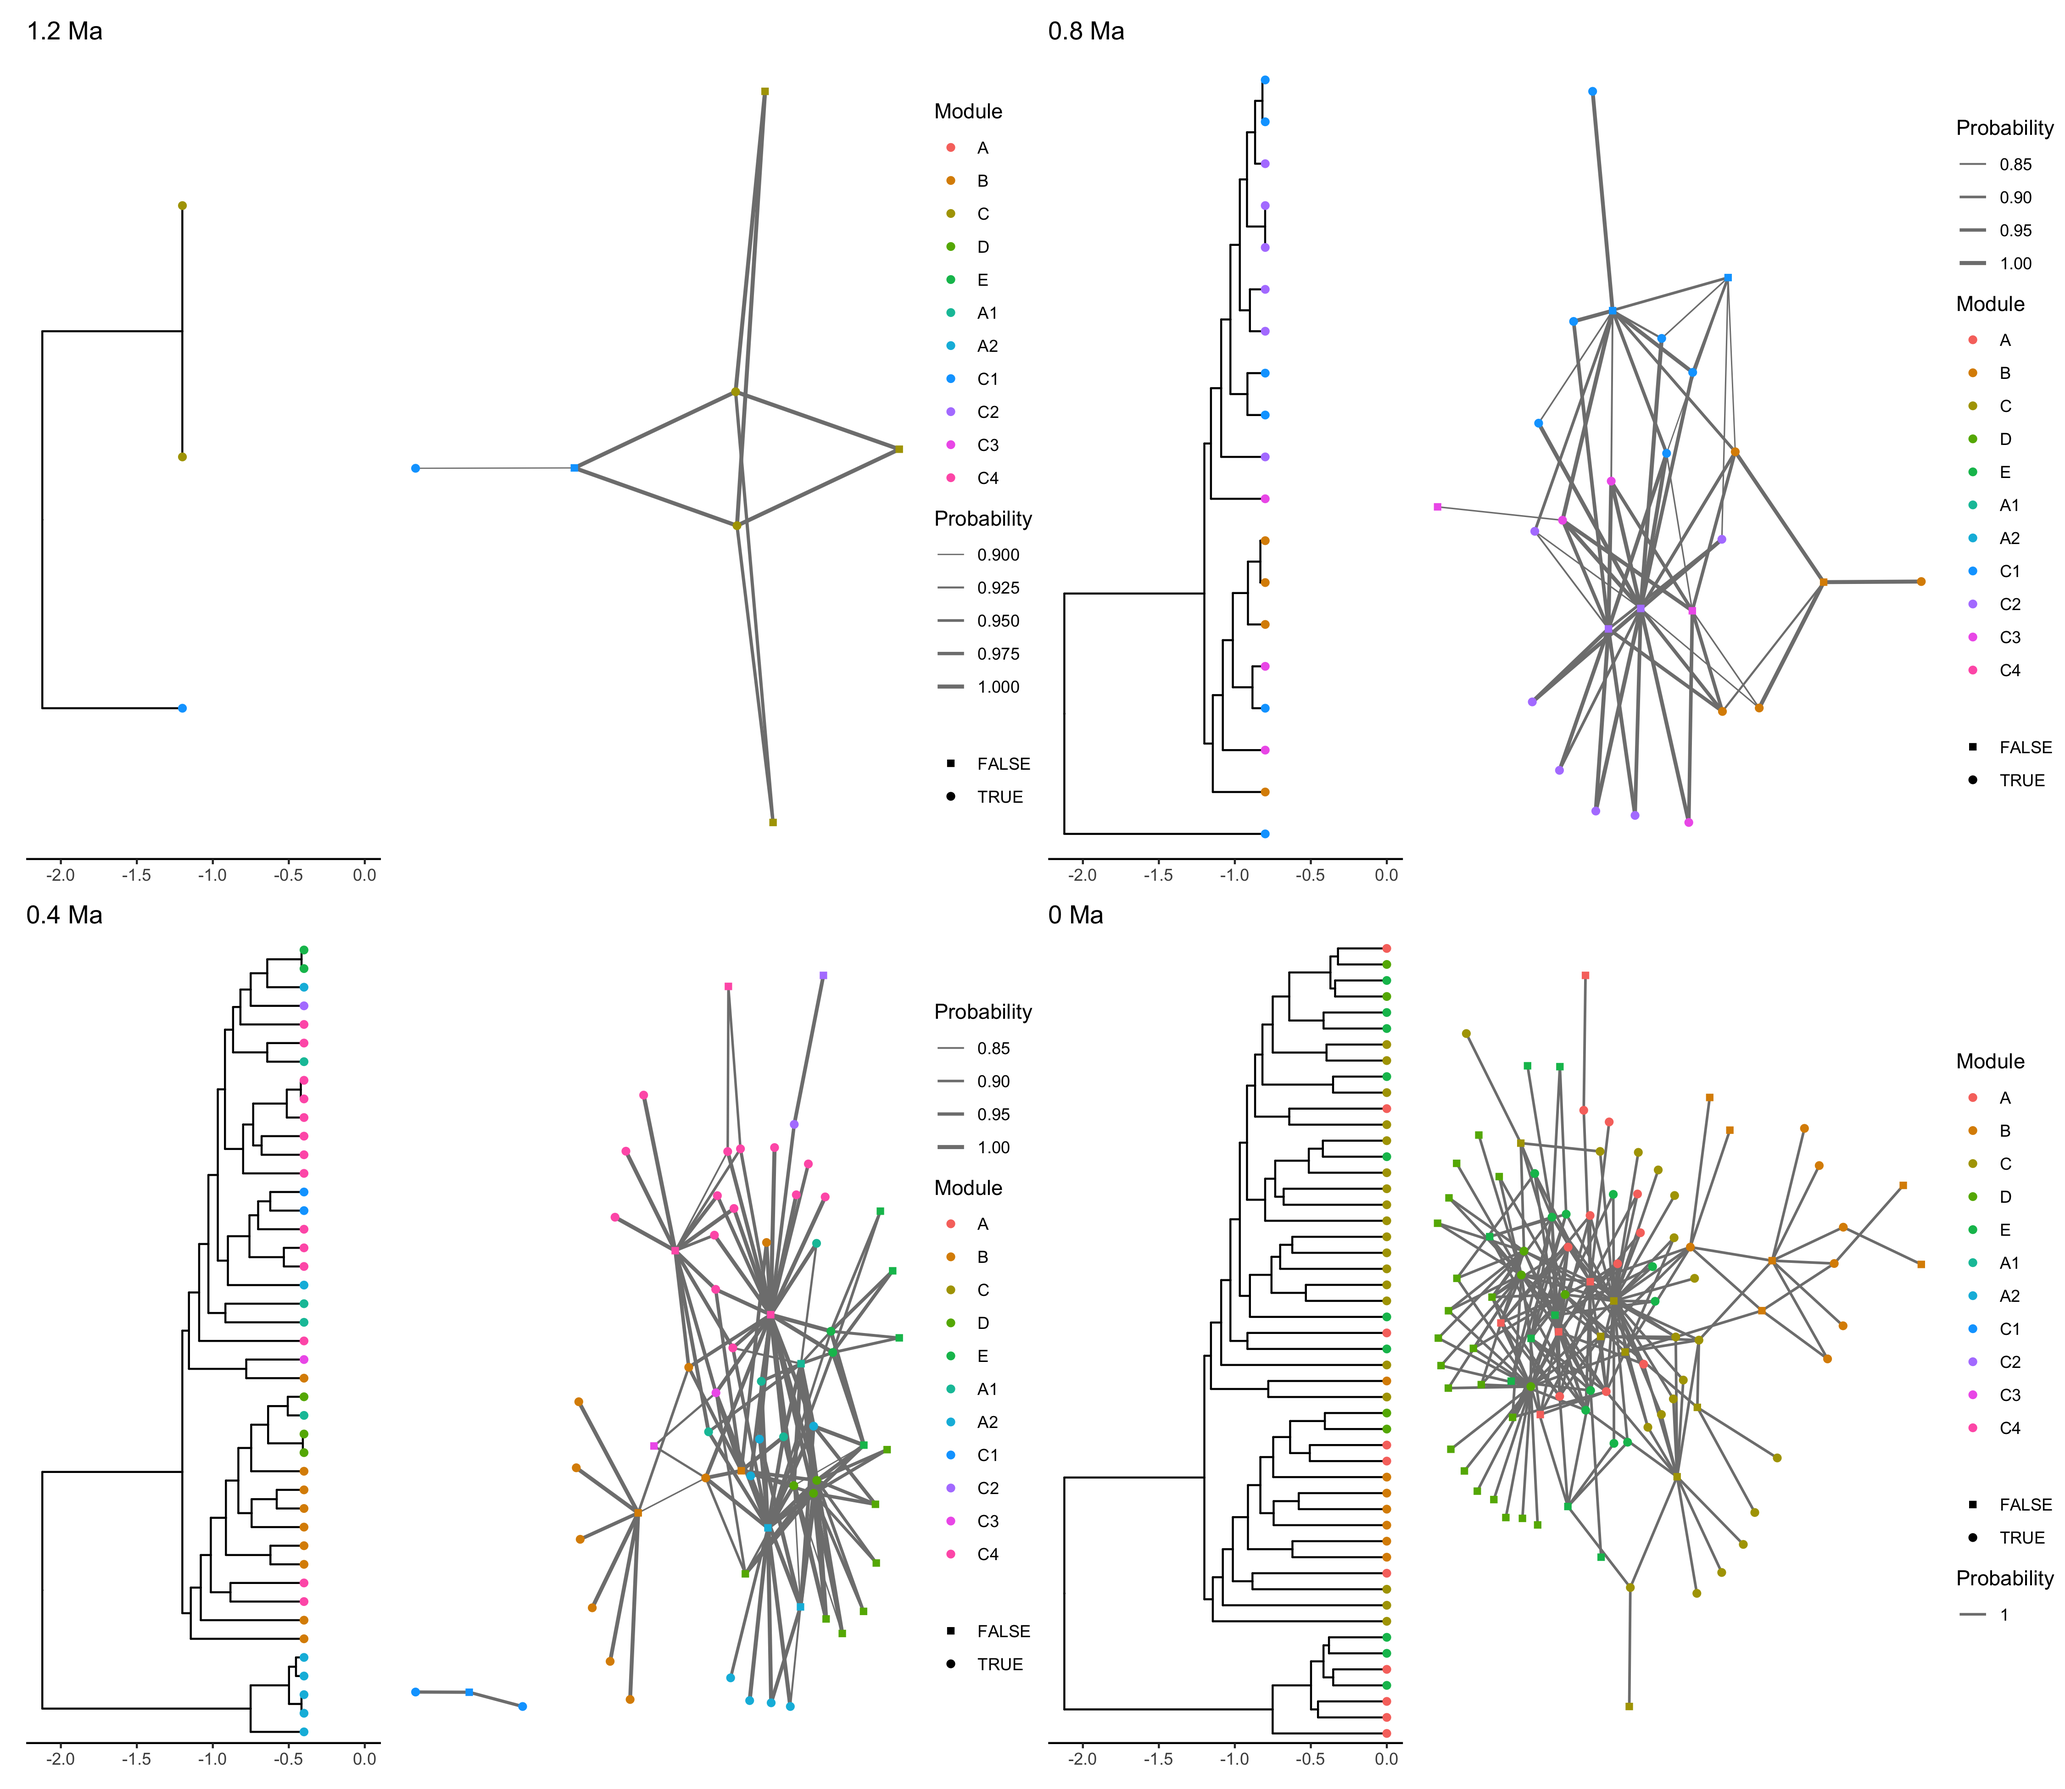
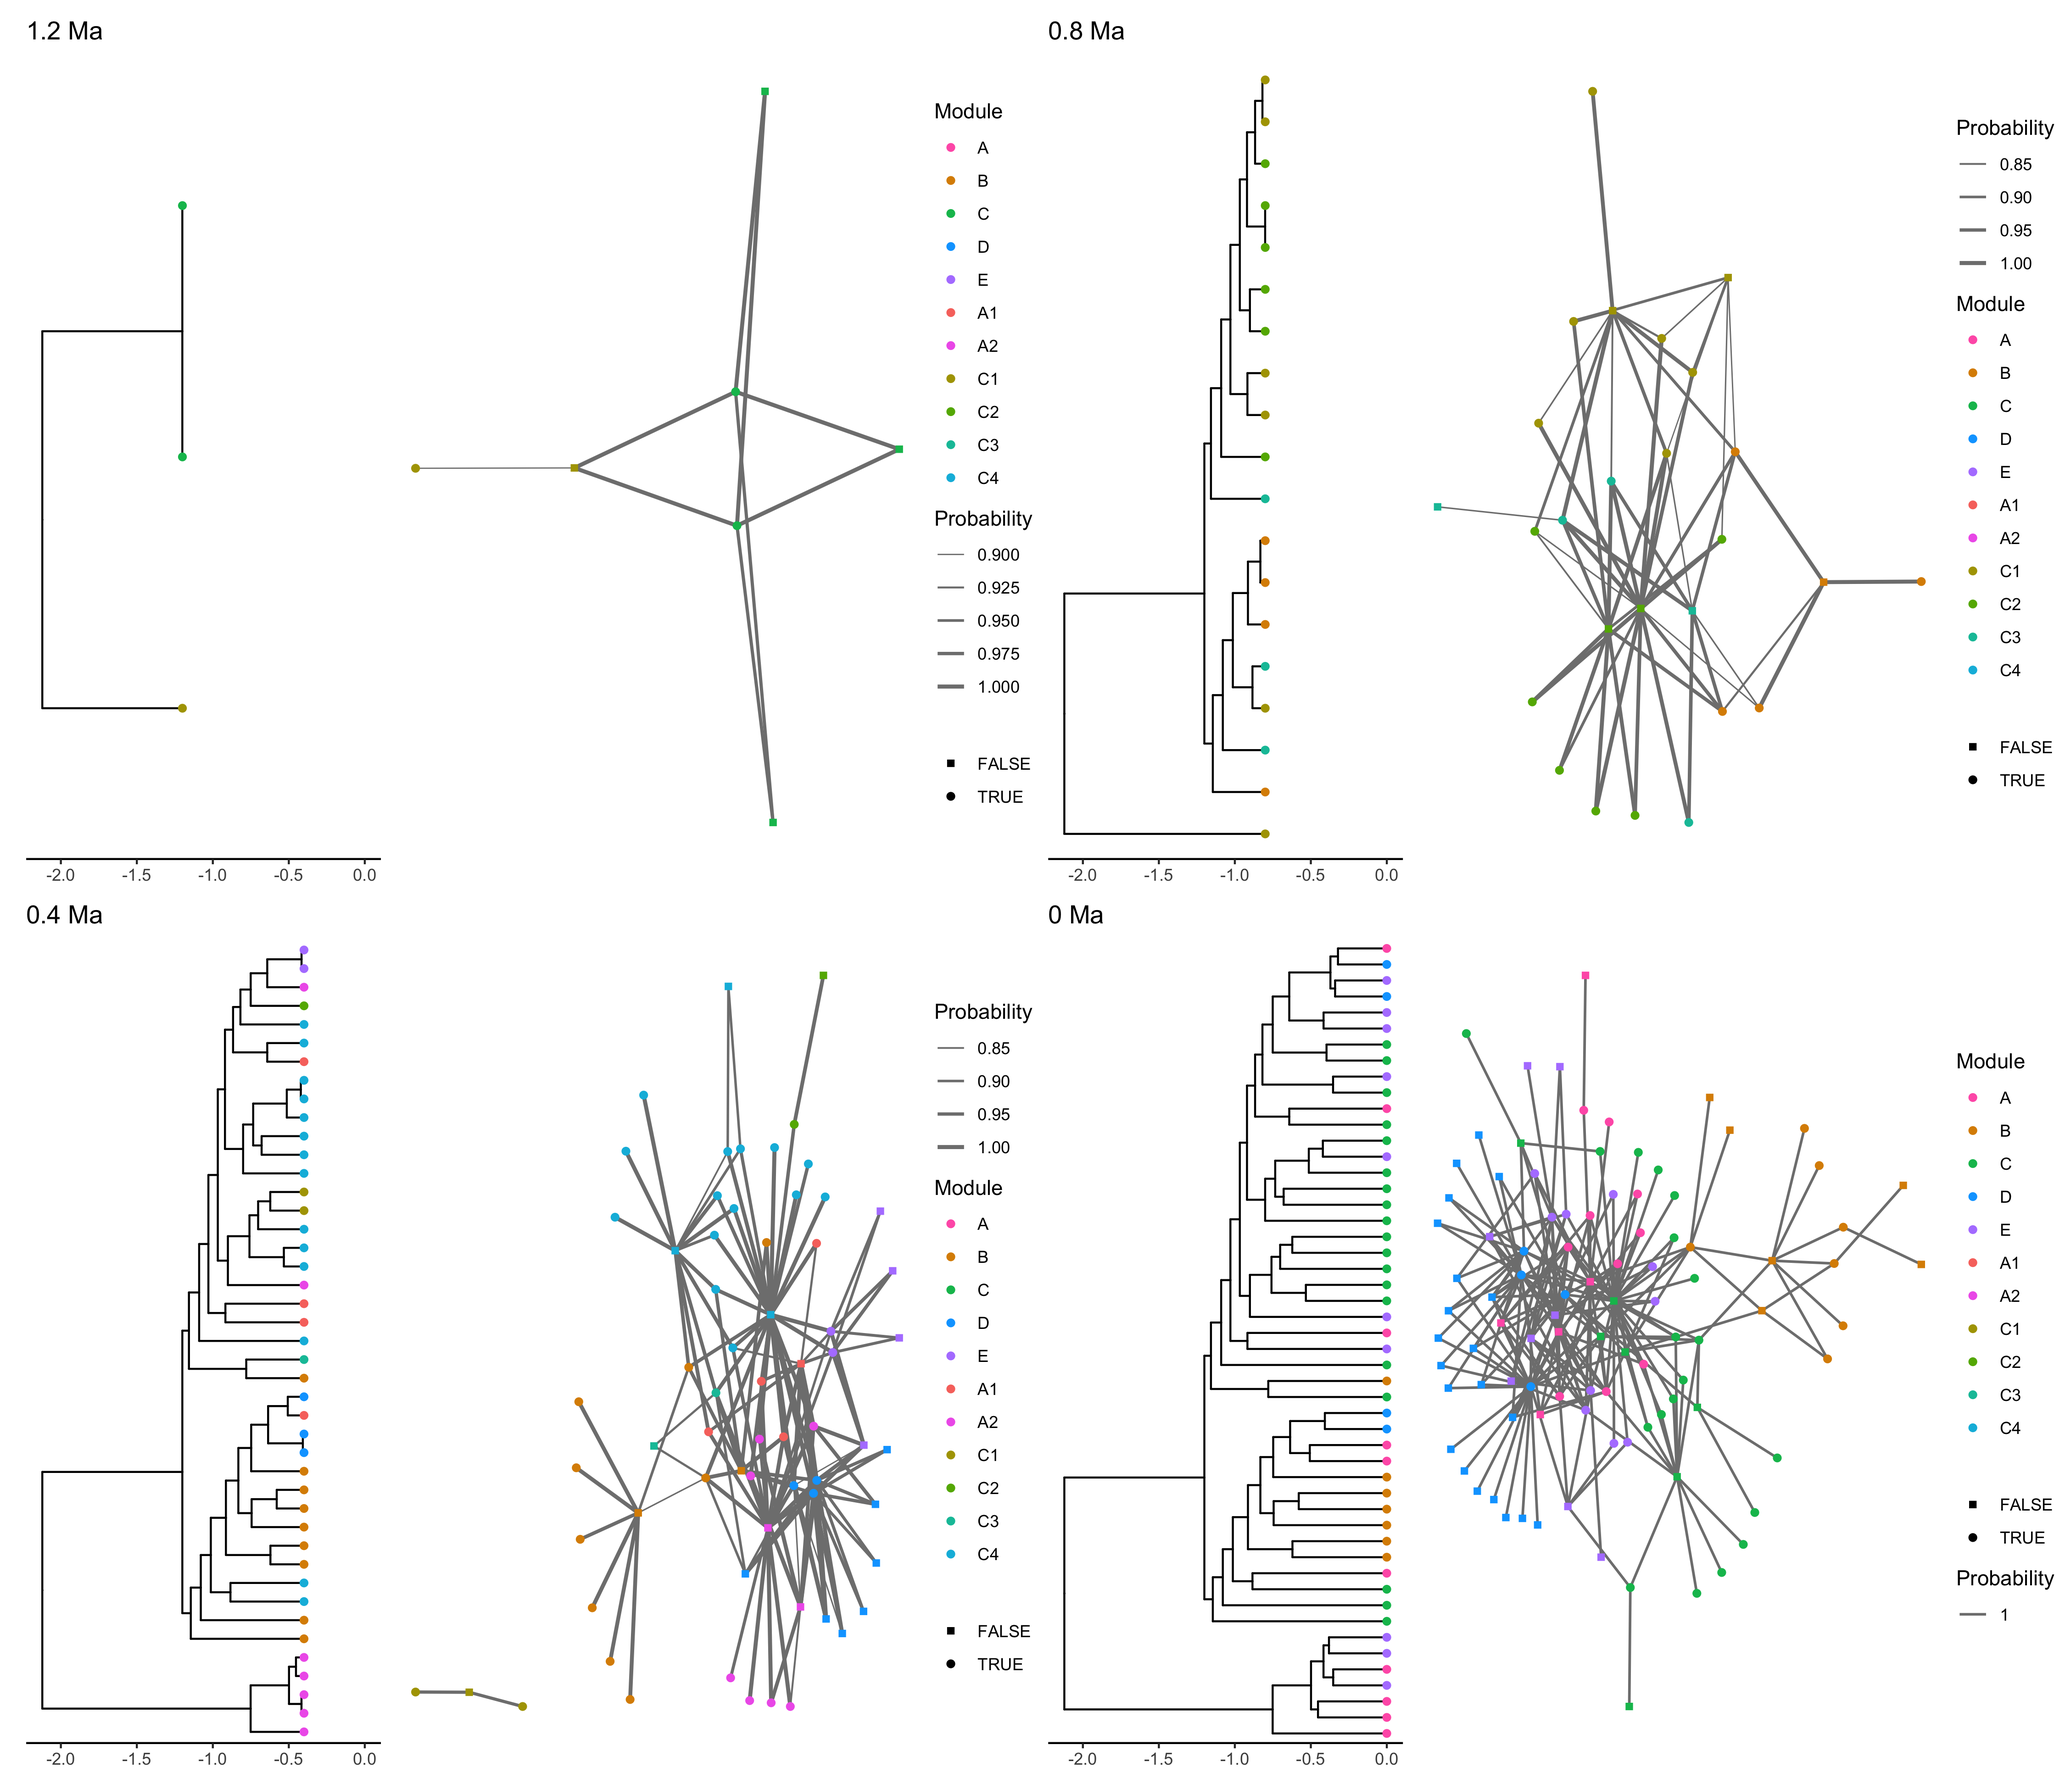
add ancestral states to script

diff --git a/Host_rep_evolution.md b/Host_rep_evolution.md
@@ -1,7 +1,7 @@
 Colias host repertoire evolution
 ================
 Mariana P Braga
-12 May, 2022
+13 May, 2022
 
 ------------------------------------------------------------------------
 
@@ -235,7 +235,9 @@ modules_at_ages <- readRDS("R/R_objects/modules_at_ages_pp80.rds")
 # get the information needed from `modules_at_ages`
 matched_modules <- modules_at_ages$matched_modules$nodes_and_modules_per_age
 
-p_nets <- plot_ancestral_networks(summary_networks, matched_modules, tree) 
+pal <- scales::hue_pal()(11)[c(11,2,5,8,9,1,10,3,4,6,7)]
+  
+p_nets <- plot_ancestral_networks(summary_networks, matched_modules, tree, palette = pal)
 wrap_plots(p_nets$plot, nrow = 2)
 ```
 
@@ -253,3 +255,20 @@ plotModuleWeb(mod_ext, labsize = 0.4)
 ```
 
 ![](Host_rep_evolution_files/figure-gfm/plotmoduleweb-1.png)<!-- -->
+
+### Ancestral states at internal nodes of Colias phylogeny
+
+We also wanted to do a tradition ancestral state reconstruction (ASR),
+calculating interaction probabilities at internal nodes of the Colias
+tree. And now that we have defined modules for the extant network, we
+can also use them to group hosts in the ASR.
+
+**Interaction probability at internal nodes**
+
+``` r
+at_nodes <- posterior_at_nodes(history, tree, host_tree)
+p_asr <- plot_module_matrix2(matrix, at_nodes, tree, host_tree, modules = mod_ext, threshold = 0.9)
+p_asr
+```
+
+![](Host_rep_evolution_files/figure-gfm/ancestral_states-1.png)<!-- -->
